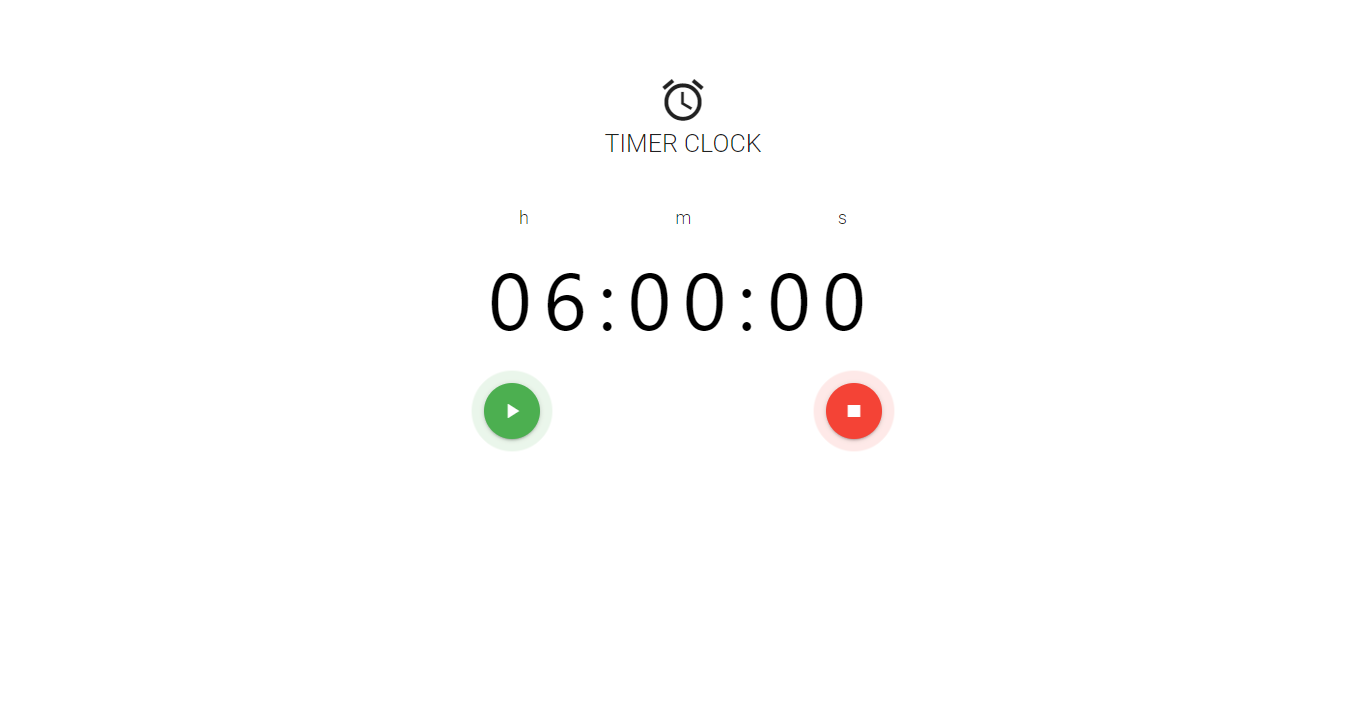
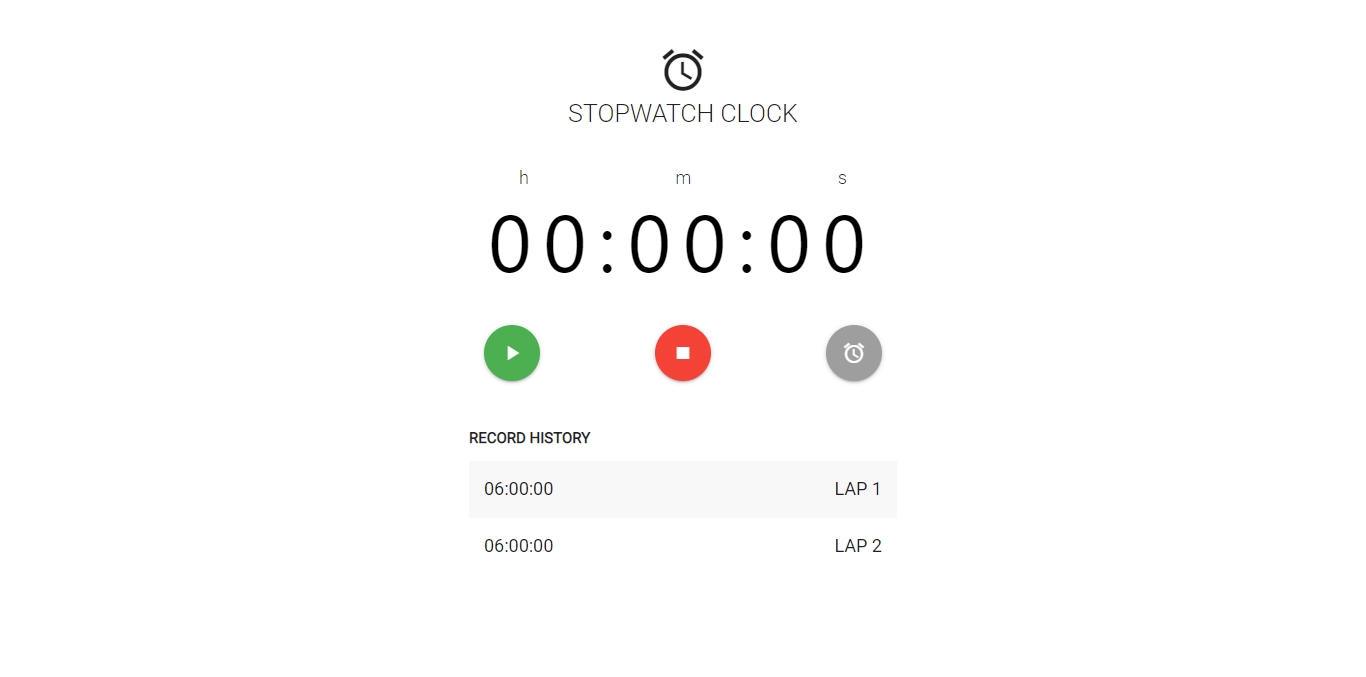
final commit

diff --git a/index.html b/index.html
@@ -30,17 +30,17 @@
   </head>
 
   <body>
-    <div class="container" style="margin-top: 50px;">
+    <div class="container" style="margin-top: 20px;">
       <div class="row">
         <div class="col s6 offset-s3" style="padding: 25px;">
           <table class="striped">
             <caption
-              style="font-size: 25px; margin-bottom: 10px; text-transform: uppercase;"
+              style="font-size: 25px; margin-bottom: 10px; text-transform: uppercase; margin-bottom: 0;"
             >
               <i class="material-icons" style="display: block; font-size: 50px;"
                 >access_alarm</i
               >
-              Timer Clock
+              Stopwatch Clock
             </caption>
             <tbody>
               <tr style="background-color: white;">
@@ -48,11 +48,11 @@
                   <p
                     style="text-align: center;
                   word-spacing: 142px;
-                  font-size: 18px;"
+                  font-size: 18px; margin-bottom: 0;"
                   >
                     h m s
                   </p>
-                  <input type="text" value="06:00:00" />
+                  <input type="text" value="00:00:00" />
                 </td>
               </tr>
               <tr
@@ -67,6 +67,36 @@
                   <a href="#" class="btn-floating btn-large btn pulse red"
                     ><i class="material-icons">stop</i></a
                   >
+                </td>
+                <td class="center">
+                  <a href="#" class="btn-floating btn-large btn pulse grey"
+                    ><i class="material-icons">alarm</i></a
+                  >
+                </td>
+              </tr>
+            </tbody>
+          </table>
+
+          <table class="striped" style="margin-top: 25px;">
+            <caption
+              style="
+              font-weight: bold;
+              text-align: left;
+              margin-bottom: 5px;
+              height: 35px;
+              line-height: 35px;"
+            >
+              RECORD HISTORY
+            </caption>
+            <tbody>
+              <tr>
+                <td style="font-weight: 500; font-size: 18px;">
+                  06:00:00 <span style="float: right;">LAP 1</span>
+                </td>
+              </tr>
+              <tr>
+                <td style="font-weight: 500; font-size: 18px;">
+                  06:00:00 <span style="float: right;">LAP 2</span>
                 </td>
               </tr>
             </tbody>

diff --git a/README.md b/README.md
@@ -1,5 +1,5 @@
-## Timer Clock
-A simple timer clock application.
+## Stopwatch Clock
+A simple stopwatch clock application.
 
 ## Screenshot
-![1](https://github.com/masudncse/timer-html-layout/blob/master/screenshot/1.png)
+![1](https://github.com/masudncse/stopwatch-html-layout/blob/master/screenshot/1.png)
